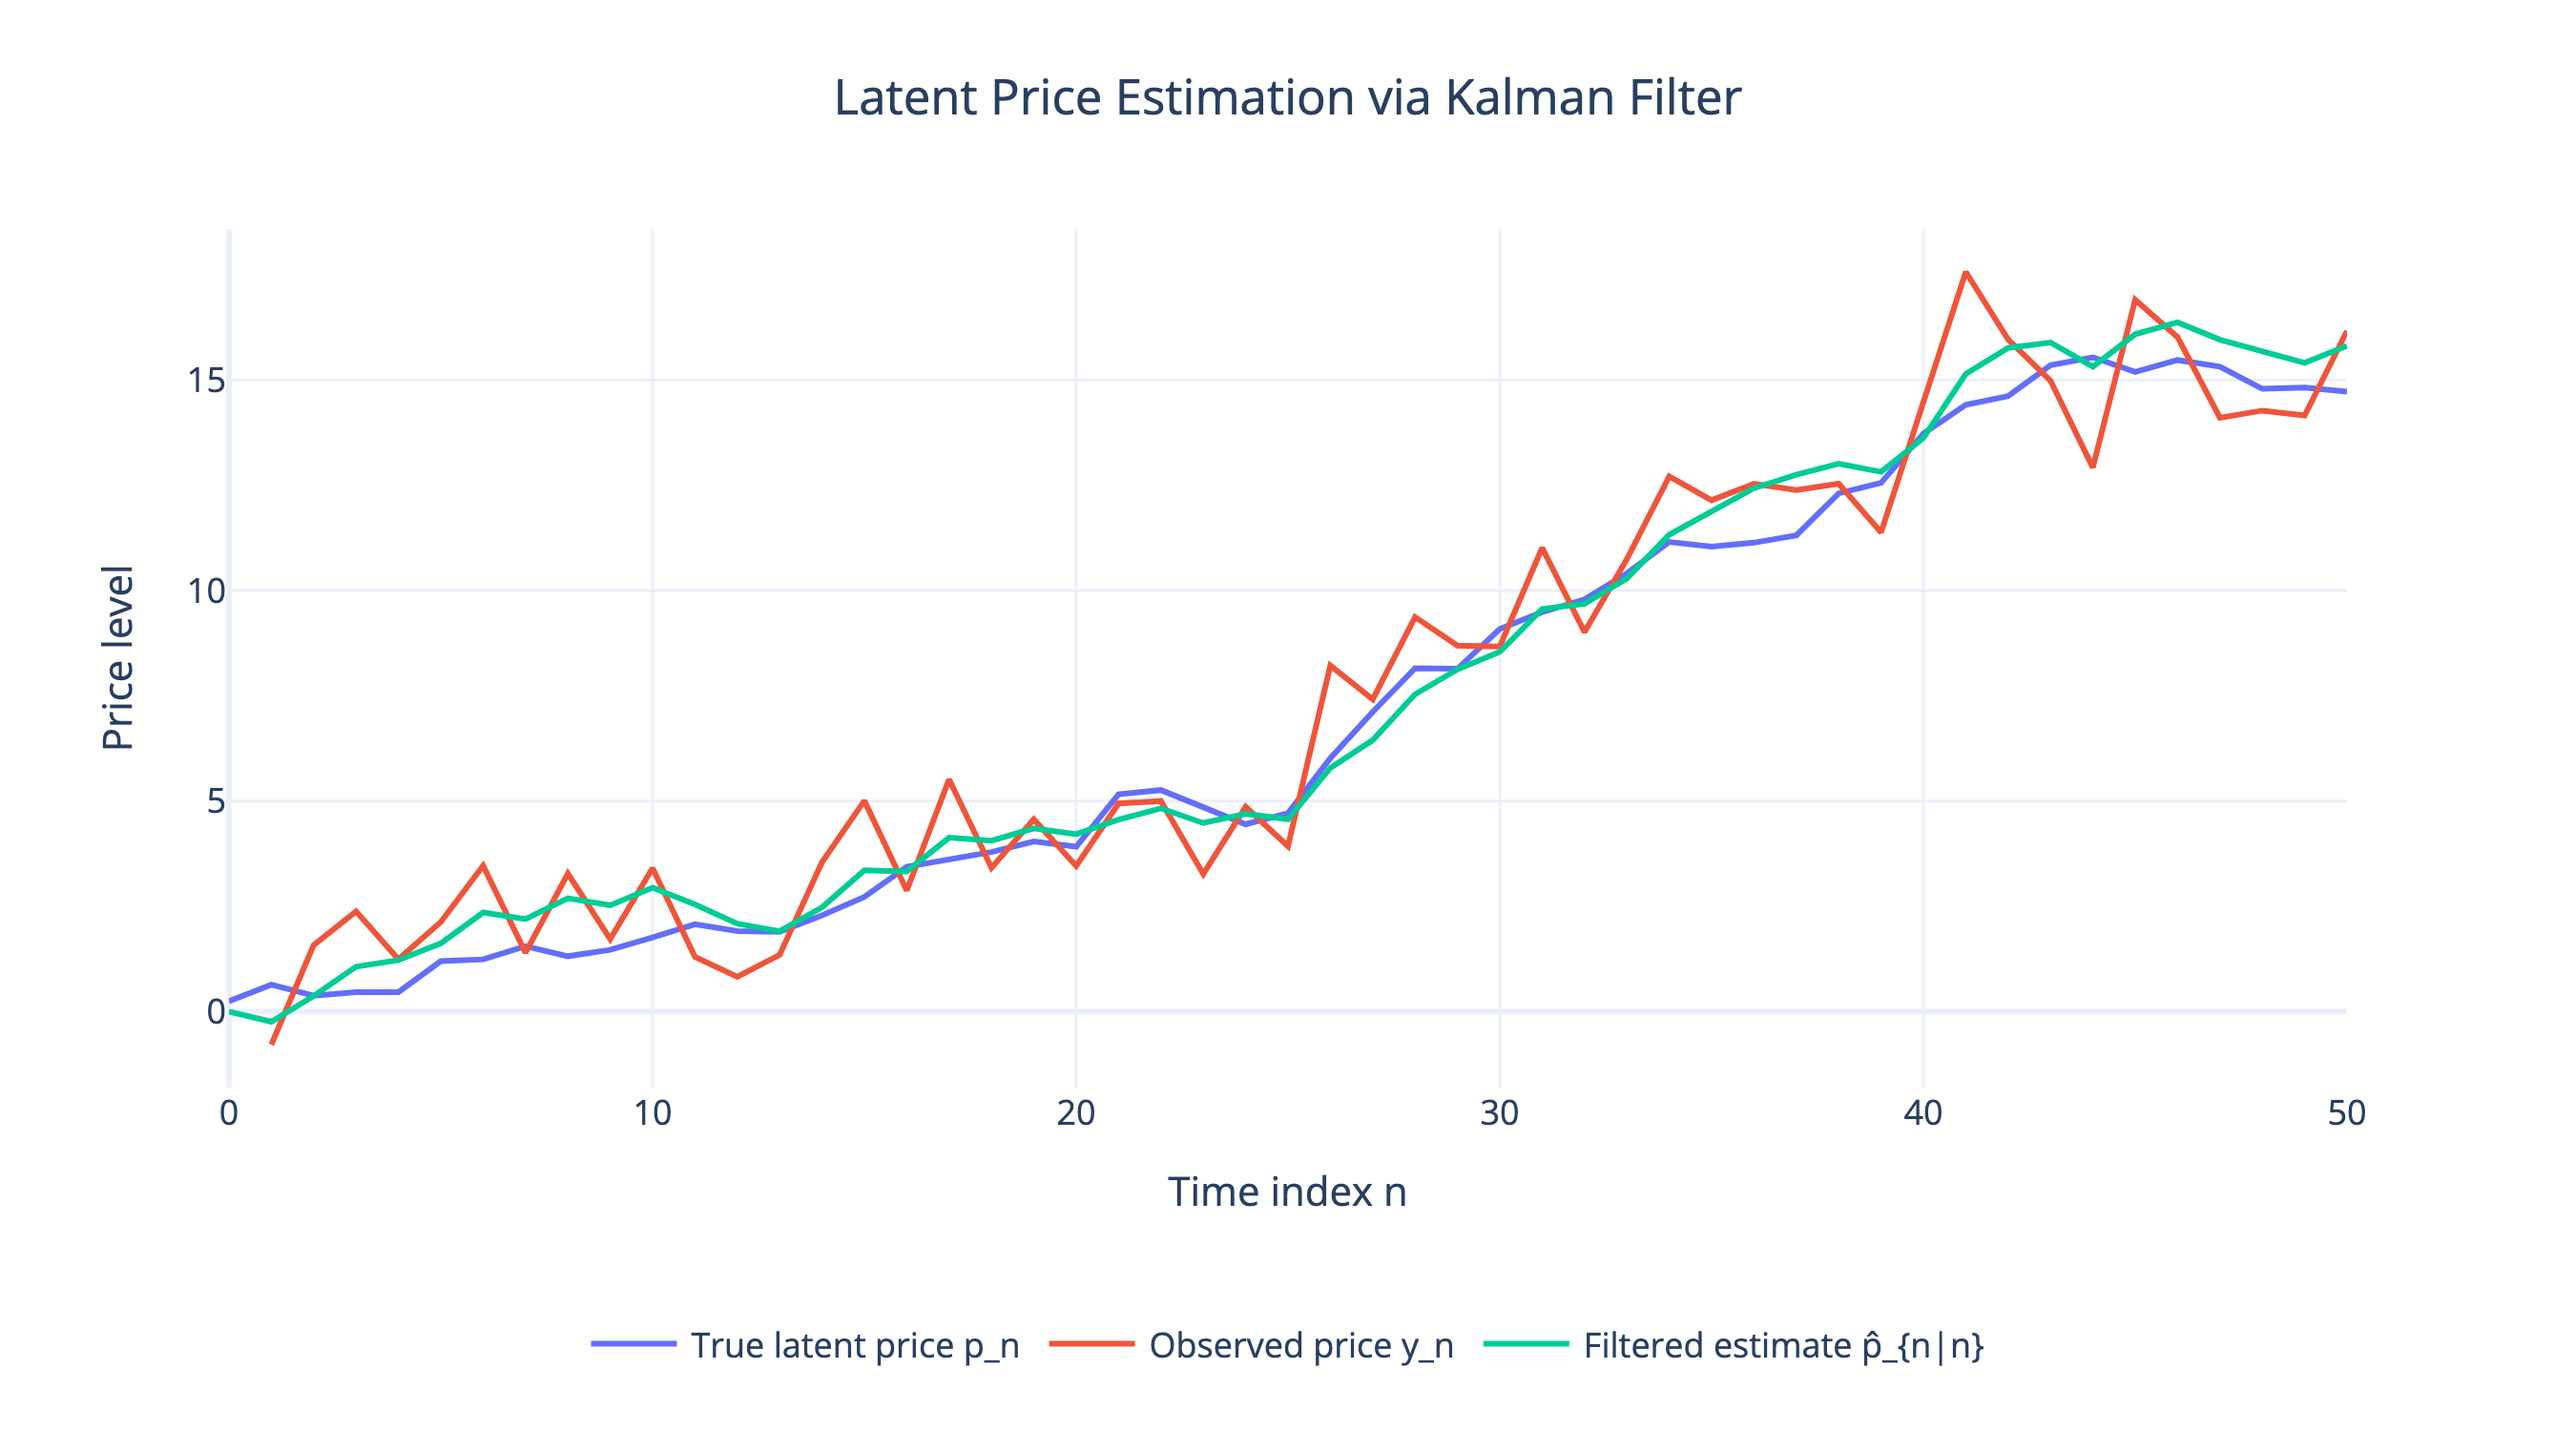
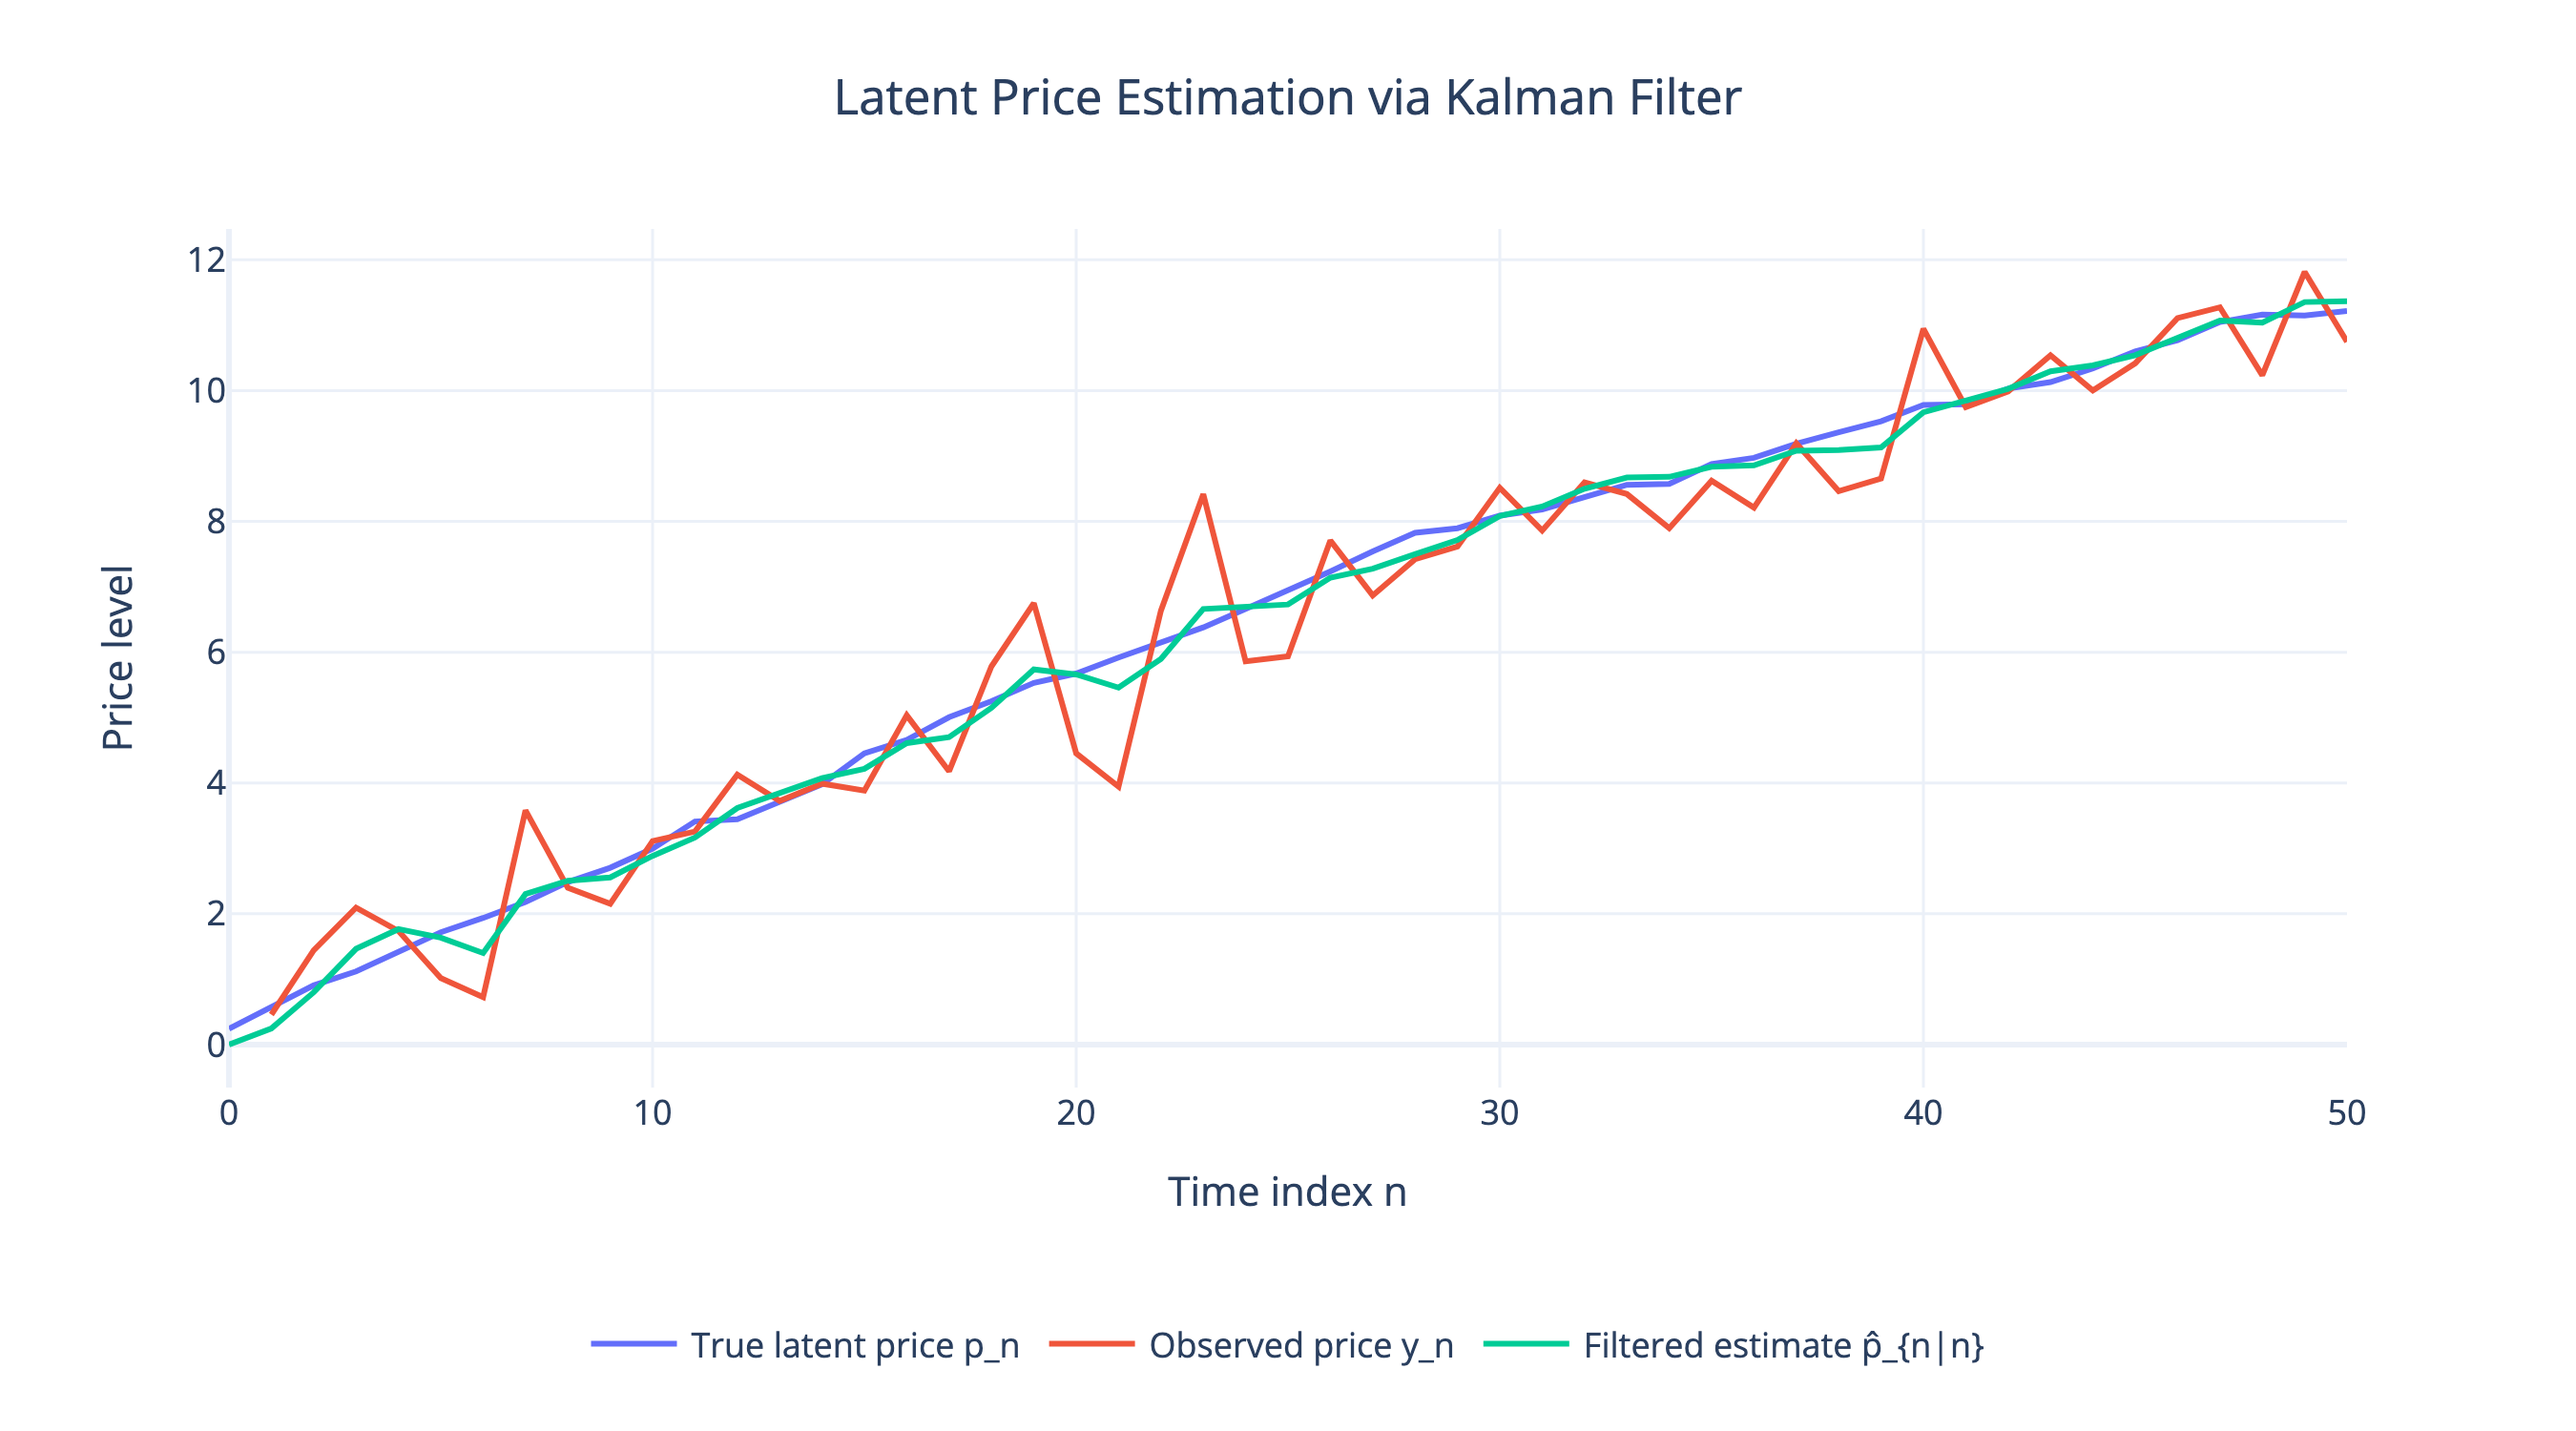
maybe final

Changed region(s): [[0.0622, 0.184, 0.9333, 0.736]]

diff --git a/kalman_2d_dashboard.html b/kalman_2d_dashboard.html
@@ -2,6 +2,6 @@
 <head><meta charset="utf-8" /></head>
 <body>
     <div>                        <script type="text/javascript">window.PlotlyConfig = {MathJaxConfig: 'local'};</script>
[2 lines of base64/hex data omitted]
 </body>
 </html>

diff --git a/kalman.py b/kalman.py
@@ -444,12 +444,112 @@ def save_mse_plot(mse, prefix="kalman_2d"):
     print(f"Saved MSE PNG: {prefix}_mse.png")
 
 
+def save_forecast_plot(A, H, Q, R, Xhat, P_filt, Y, horizon=20, prefix="kalman_2d", conf=0.95):
+    """
+    Forecast future observations using the filtered terminal state x_{N|N} and covariance P_{N|N}.
+    Plot: observed y_n, filtered price estimate, forecast mean + confidence band.
+    """
+    import numpy as np
+    import plotly.graph_objects as go
+
+    A = np.atleast_2d(A)
+    H = np.atleast_2d(H)
+    Q = np.atleast_2d(Q)
+    R = np.atleast_2d(R)
+
+    N = Y.shape[0]  # observations: n=1..N
+    t_obs = np.arange(1, N + 1)
+    t_state = np.arange(0, N + 1)
+    t_fore = np.arange(N + 1, N + horizon + 1)
+
+    xN = Xhat[-1].reshape(-1, 1)   # x_{N|N}
+    PN = P_filt[-1]               # P_{N|N}
+
+    # z-score for normal CI
+    z_map = {0.90: 1.645, 0.95: 1.96, 0.99: 2.576}
+    z = z_map.get(conf, 1.96)
+
+    y_mean = np.zeros(horizon)
+    y_std = np.zeros(horizon)
+
+    A_h = np.eye(A.shape[0])          # A^h
+    A_i = np.eye(A.shape[0])          # A^i for noise sum
+    noise_sum = np.zeros_like(PN)     # sum_{i=0}^{h-1} A^i Q (A^i)^T
+
+    for h in range(1, horizon + 1):
+        # Update noise sum with term for i=h-1
+        if h == 1:
+            A_i = np.eye(A.shape[0])  # A^0
+        else:
+            A_i = A @ A_i             # now A^{h-1}
+        noise_sum = noise_sum + A_i @ Q @ A_i.T
+
+        # Update A^h
+        A_h = A @ A_h
+
+        # Predicted state moments
+        x_pred = A_h @ xN
+        P_pred = A_h @ PN @ A_h.T + noise_sum
+
+        # Predicted observation moments
+        y_pred = (H @ x_pred).item()
+        y_var = (H @ P_pred @ H.T + R).item()
+
+        y_mean[h - 1] = y_pred
+        y_std[h - 1] = np.sqrt(max(y_var, 0.0))
+
+    upper = y_mean + z * y_std
+    lower = y_mean - z * y_std
+
+    fig = go.Figure()
+
+    # observed
+    fig.add_trace(go.Scatter(
+        x=t_obs, y=Y[:, 0], mode="lines", name="Observed price y_n"
+    ))
+
+    # filtered latent price estimate
+    fig.add_trace(go.Scatter(
+        x=t_state, y=Xhat[:, 0], mode="lines", name="Filtered price p̂_{n|n}"
+    ))
+
+    # forecast mean
+    fig.add_trace(go.Scatter(
+        x=t_fore, y=y_mean, mode="lines", name="Forecast mean E[y_{n}|Y_{1:N}]"
+    ))
+
+    # confidence band
+    fig.add_trace(go.Scatter(
+        x=np.concatenate([t_fore, t_fore[::-1]]),
+        y=np.concatenate([upper, lower[::-1]]),
+        fill="toself",
+        mode="lines",
+        line=dict(width=0),
+        name=f"{int(conf * 100)}% forecast band"
+    ))
+
+    fig.update_layout(
+        title=dict(text="Price Forecast using Estimated Drift (Kalman Filter)", x=0.5),
+        xaxis_title="Time index n",
+        yaxis_title="Price level",
+        template="plotly_white",
+        height=550,
+        width=950,
+        legend=dict(orientation="h", yanchor="top", y=-0.25, xanchor="center", x=0.5),
+        margin=dict(t=80, b=120),
+    )
+
+    fig.write_image(f"{prefix}_forecast.png", scale=3)
+    print(f"Saved forecast PNG: {prefix}_forecast.png")
+
+
+
 
 # -----------------------------
 # Main
 # -----------------------------
 def main():
-    seed = int(np.random.randint(0, 128))
+    seed = 1 # int(np.random.randint(0, 128)) #20, 123 good
     rng = np.random.default_rng(seed)
     print(f"seed: {seed}")
 
@@ -458,19 +558,19 @@ def main():
                   [0.0, 1.0]])
     H = np.array([[1.0, 0.0]])
 
-    sigma_p = 0.40
-    sigma_mu = 0.05
+    sigma_p = 0.10 #0.40
+    sigma_mu = 0.02 #0.05
     Q = np.array([[sigma_p**2, 0.0],
                   [0.0, sigma_mu**2]])
 
-    sigma_y = 1.50
+    sigma_y = 0.8 #1.50
     R = np.array([[sigma_y**2]])
 
     x0_mean = np.array([0.0, 0.05])
-    P0 = np.array([[2.0, 0.0],
-                   [0.0, 0.2]])
     P0 = np.array([[1.0, 0.0],
                [0.0, 0.05]])
+    P0 = np.array([[0.5, 0.0],
+               [0.0, 0.08]])
 
     N = 50
 
@@ -487,10 +587,12 @@ def main():
     )
     fig.show()
     # --- Monte Carlo MSE ---
-    M = 300  # e.g. 100-1000 depending on speed
+    M = 5000  # e.g. 100-1000 depending on speed
     mse_seed = 12345  # fix for reproducibility of the MSE curve
     mse = empirical_mse_mc(A, H, Q, R, x0_mean, P0, N, M, seed=mse_seed)
     save_mse_plot(mse, prefix="kalman_2d")
+
+    save_forecast_plot(A, H, Q, R, Xhat, P_filt, Y, horizon=20, prefix="kalman_2d", conf=0.95)
 
 
 if __name__ == "__main__":
